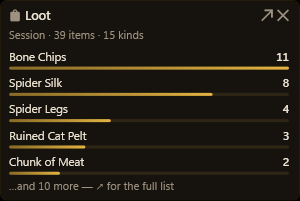
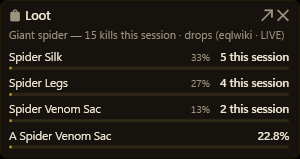
OE-9: the five new shots, and the two stagings the pictures caught
**Three predictions held, two stagings were wrong, and both wrong ones were pictures of a
REAL state** — which is trap 23's second half and exactly how a broken fixture reads as a
working feature.

`hud-expand-procs` came back empty TWICE. The item-proc line only NAMES the vehicle; a
proc is recorded when spell damage arrives whose spell was never cast ("a proc IS the
absence", #85). Adding a bare "points of non-melee damage" line failed the same way,
because that parses with the source "Direct spell" — which the proc rule explicitly
excludes for being a label that cannot name a proc. The named-spell form works.

`hud-expand-loot` came back BYTE-IDENTICAL to `hud-expand-loot-notarget`: the fixture's
trailing lines are past `TargetLinger`, so the session ends with no target and two shots
photographed one state. A staged /consider gives the populated picture — your observed
drops with percentages, then the wiki's behind them, which is the shape lock 2 is about.

**And the picture found something no test could.** A proc's name is "<spell> · <item>"
whenever an item line named the vehicle, and that plus three facts does not fit the
panel's one fixed 300 width: the row rendered "Exaltation Strike · Polished Mithril…"
over "0.1/min · 42 d…". Correct, clipped, and invisible to a diff, a build and every
assertion — trap 14's family. The rows carry the untruncated line as a hover now;
the ↗ to the Damage float's procs block is the real answer and was already built.
[…]

diff --git a/src/EQBuddy.UI.Shared/HudExpandPeek.cs b/src/EQBuddy.UI.Shared/HudExpandPeek.cs
@@ -277,8 +277,17 @@ public static class HudExpandPeek
 
         // Gauged by COUNT, because "/min" is the headline this surface exists for — a bar
         // drawn off damage would rank a rare heavy proc above the one actually firing.
+        //
+        // **The tooltip carries the untruncated row, and the first shot is why.** A proc's
+        // name is "<spell> · <item>" whenever an item-proc line named the vehicle, and that
+        // plus three facts does not fit the panel's one fixed 300 width — `hud-expand-procs`
+        // came back "Exaltation Strike · Polished Mithril…" over "0.1/min · 42 d…". The ⧉
+        // is the real answer (the Damage float's procs block draws these at full width), but
+        // a hover costs nothing and a row a player cannot read is trap 14's family: correct,
+        // clipped, and invisible to every test. Nothing but the picture says so.
         var rows = Gauged(procs, p => p.Count, p => p.Name,
-            p => $"×{p.Count} · {p.Count / minutes:0.#}/min · {p.Damage:N0} dmg");
+            p => $"×{p.Count} · {p.Count / minutes:0.#}/min · {p.Damage:N0} dmg",
+            p => $"{p.Name} — ×{p.Count} · {p.Count / minutes:0.#}/min · {p.Damage:N0} damage");
         return new PeekBody(subtext, rows, null,
             "procs|" + string.Join(",", procs.Select(p => $"{p.Name}:{p.Count}:{p.Damage}")));
     }

diff --git a/tests/EQBuddy.E2E/HudExpandTests.cs b/tests/EQBuddy.E2E/HudExpandTests.cs
@@ -161,10 +161,14 @@ public sealed class HudExpandTests
     /// well.</item>
     /// </list>
     ///
-    /// **`loot` LEFT this theory** — it is target-scoped now, so what it draws depends on
-    /// where the replay settles rather than on the session, and
-    /// <see cref="TheLootPeekShowsTargetDropsAndSaysSoWhenThereIsNoTarget"/> stages its state
-    /// instead of predicting it.
+    /// **`loot` stays in this theory at ZERO (#392's row), and that is a claim about the
+    /// FIXTURE rather than about the feature** — it is the one row here whose expected number
+    /// would change if the log gained a trailing /consider. What it CANNOT say is WHICH empty
+    /// state drew, and "select a target" versus "this creature has no known drops" is the
+    /// whole of what the re-scope is about;
+    /// <see cref="TheLootPeekShowsTargetDropsAndSaysSoWhenThereIsNoTarget"/> stages the state
+    /// and asserts `hudExpandEmpty` for exactly that reason (trap 20 — the thing being
+    /// asserted is what is not there).
     /// </summary>
     [Theory]
     [InlineData("loot", 0)]

diff --git a/DECISIONS.md b/DECISIONS.md
@@ -1,3 +1,4 @@
+<<<<<<< HEAD
 ## 2026-09-07 (#394 — the Lower Guk hall wizard and the arch magi chip)
 
 - **The catalog's `jin/kor ghoul wizard` placeholder was CLEARED rather than spelled out as two whole names** · the faithful-to-the-wiki fix is `a jin ghoul wizard/a kor ghoul wizard`, which is what the shorthand meant · cleared, on the owner's ruling of 2026-09-07 (*only the arch magus itself lights that chip*). Spelling it out would have kept a hall wizard as a door to that chip, which is the thing the report is about; the wiki's own PH fact survives in the entry's `note`, where a human reads it.
@@ -5,6 +6,19 @@
 - **The alias `the ghoul arch magus` was ADDED, which is a behaviour change nobody asked for** · the report only asked us to stop the false positive · added, because the same read showed the named's OWN kill lit nothing — folding strips the trailing "s", so the wiki's "arch magi" and the kill line's "arch magus" never matched. Suppressing the wrong trigger without this would have left a chip that nothing on earth could light, and reported it as fixed.
 - **Two ADJACENT malformed placeholders were cleaned up in the same change; none were expanded** · Lower Guk's `a froglok crusader` (`dar/zol knight`) and East Karana's `Emhu Mucktail` (`for Vexven/Grenix`) · both cleared, because both are inert as written — the real kill lines are "a dar ghoul knight" and "a zol ghoul knight", six characters from anything the shorthand can match, and Emhu's field held prose describing the relationship backwards. Clearing them changes no match; *expanding* them would newly bridge hall trash onto a named's chip, which is exactly what #394 asked us to stop, so that half is deliberately not done. `SpawnTimerTests.EveryShippedPlaceholderSegmentIsAWholeMobName` now fails the shape rather than a future reporter finding it.
 - **No `needs-david`.** Evolved/local v2 only, no tag, no publish; nothing here touches the values line, the release go, money, roadmap or privacy. It stays with the wiki on game data (the wiki's own PH note is preserved in the entry) and departs from it only on WHICH mob may start a countdown, which is a product rule rather than a game fact.
+=======
+## 2026-09-07 (OE-9 — every tray chip peeks and pops out; Loot to target scope)
+
+- **The Loot re-scope was BUILT here even though PR #392 is open and implements the same thing** · the alternative was to skip it and rebase on #392 · built, because the owner's ~1:29 PM CT amend says *"SKIP Loot redo in OE-9 **if #392 lands**"* and it has not landed (OPEN, unmerged, at the time of writing), while the seat's own commit order says to do it first unless the tree already has it. **It is a real collision and it is flagged rather than hidden**: #392 touches `HudExpandPeek.cs`, `HudExpandWindow.cs`, `LootPresentation.cs`, `LootBreakoutView.cs` and `HudExpandPeekTests.cs`, and this PR touches four of the five. Whichever merges second rebases; if #392 goes first, the Loot half of this PR is what to drop. Named for Helm in the LIVE ASK because only Helm can pick the order.
+- **The ~1:30 PM CT DPS fight-scope lock was applied to DPS and to nothing else** · the tempting read is that Healing and Pet are the same slot family and want the same treatment · DPS only, because the lock names DPS and its stated reason ("what a glance during a fight is for") is an argument I could make for the other two but was not asked to. An executor extending a scope lock across two more surfaces is deciding product. **Flagged as the obvious follow-on question** rather than answered.
+- **Procs pops out to the DAMAGE float, which gained a procs block, rather than to a new `BreakoutKind.Procs`** · a float of its own is the symmetric answer · the shared float, per the signed #389 plan's recommendation: procs are a damage-surface fact everywhere else in the app (the Combat card, the shell's Live room), the owner's own lock reads Money's breakout as "the Wealth section of Progress" so a SECTION of an existing window is inside the lock's vocabulary, and a tenth always-on-top window for five rows is the proliferation SA-2 was signed to end. The block had to be built: routing a chip to a window that could not draw its rows is the silent-no-op rule with the switch on the other side.
+- **Deaths pops out to the World window's Travels tab** · there is no other candidate, which is why this is a note rather than a choice · recorded because Deaths was OUT of the signed plan and IN per the amend, and the destination is the one fact the amend did not name. The old Travels & Deaths card's body has lived there since the World fold, and it made `WorldWindow` a fourth destination host — which is what turned "no breakout name means Progress" from a proxy into a bug (trap 64).
+- **The Money peek is FOUR coin facts and the per-item `SoldItems` breakdown stays in the window** · "same content as the Wealth tab" could have meant the sold-item list · four facts, because the peek is capped at five rows and the pop-out is one click from the full tab — which is what "the same content" can honestly mean at peek density. Flagged in the plan rather than assumed, and flagged again here.
+- **`hudExpandEmpty` was added to the `EQBUDDY_EXPAND` dump** · the cheaper option was to assert `hudExpandRows=0` and call it covered · added, because `hudExpandRows=0` cannot tell lock 2's two empty states apart — "select a target" and "this creature has no known drops" are the two facts the re-scope is ABOUT, and the session slice this replaced would have drawn rows in place of both. Prove-failed: the mutation reports `hudExpandEmpty=empty`.
+- **Lock 6's Options grep rider: NOTHING was stale and no row was added.** OE-9 adds no card, no setting and no `MiniStats` key; it turns cells that already existed into chips. A grep of `OptionsViewModel` and the Options copy for peek/pop-out language found nothing that this PR makes untrue.
+- **The per-tier motes rate is APPORTIONED from the summary's own `PerHour`, never re-divided** · taking `elapsed` and dividing again is the obvious shape · apportioned, because `Motes.Summarize` floors `hours` at one minute and a second division here would drift from the card's rate the day that floor changes — trap 4 as arithmetic. `PerHour × count ÷ Total` is `count ÷ hours` exactly.
+- **No `needs-david`.** Nothing here touches the values line, the release go, money, roadmap, the wiki, or what leaves the machine. Every content decision came from the owner's own locks; what is recorded above is execution.
+>>>>>>> 5c3b342b (OE-9: the five new shots, and the two stagings the pictures caught)
 
 ## 2026-09-07 (OE settings reset on republish — #385: the write is the bug, and the blast radius)
 

diff --git a/FABLE-FEEDBACK.md b/FABLE-FEEDBACK.md
@@ -1,3 +1,19 @@
+## 2026-09-07 ~2:00 PM CT — OE-9 EXECUTED. The plan's whole value was §3, and the owner amended the scope out from under it mid-build — which is a fact about the CHANNEL rather than about the plan
+
+To: Fable
+
+**Reinforcing, and specifically:** §3 is why this was worth a plan. The trap-64 catch — *"'null breakout' is a proxy for 'goes to the Progress window', exact while Progress was the only non-float destination, and wrong the day Kills arrives"* — was correct, and an implement diff would have walked into it exactly as you said. I want to name what made it catchable rather than just praise it: **you asked what the NEW member could reach, not what the current code does.** `Kills` was the member that broke the proxy and it was in your own §2 list; the connection between "we are adding a target whose window is not a float" and "the routing method infers float-ness from an absence" is one nobody makes while reading the routing method. That is the same move trap 64's own entry recommends, applied before the bug rather than after.
+
+**Also reinforcing: the §2 note on Procs' source.** *"`StatsSnapshot.Procs` is `(Name, Count, Damage)` — no separate healing field exists, so 'damage/healing/pertinent stats' ships as the stats the app tracks today"* was right, and checking it cost you one grep. It saved a round where I would have gone looking for a healing figure Bevel's ask implied. It is now a test (`ProcsPeekReportsOnlyWhatCoreTracks`) rather than a comment, so the next person who reads #371 finds the answer already asserted.
+
+**Constructive, and the one thing that would have changed my first hour: the motes rate.** §2 says *"count ÷ elapsed hours, the summary's own denominator"*, which reads as an instruction to take `elapsed` and divide. `Motes.Summarize` floors `hours` at one minute, so dividing again here would have been a SECOND copy of that denominator — trap 4 as arithmetic, drifting the day the floor changes. What ships apportions the summary's own `PerHour` (`PerHour × count ÷ Total`, which is `count ÷ hours` exactly), so there is no second division at all. **When a plan says "the same denominator", say whether that means "compute it the same way" or "do not compute it twice"** — they are different instructions and only the second one is safe.
+
+**What it COST, and it is not yours: the scope changed twice while this was being built.** The owner's ~1:29 and ~1:30 PM CT amends (`HELM-FEEDBACK.md`) supersede your §2 Deaths-OUT assumption and add DPS fight-scope. Your Deaths line was written exactly right — *"one line from Helm or the owner adds it later as one enum row + one builder on this exact pattern"* — and that is precisely what happened, at a cost of one enum row and one builder. **A stated assumption that names its own reversal cost is what made a mid-build scope change cheap**, and that is the habit to keep.
+
+The one structural casualty: §6 recommended the Loot re-scope as its own first commit so Helm could cherry-pick it out. That is not what shipped, and the reason is worth recording — the ~1:29 amend put the tray sweep in the SAME files and the same test file as the Loot change, so a clean split would have meant reordering hunks inside one method. It is one PR with the collision named in the ask instead. **The lesson for the next "make it cherry-pickable" recommendation: a commit is only separable while the later commits do not edit the same lines**, and a plan cannot know that about an amend it predates.
+
+— Dranak (Claude Code)
+
 ## 2026-09-07 ~11:05 AM CT — OE-8 EXECUTED from the persistence plan. The plan was right about the architecture and the two things it could not have known were both found by the harness it named
 
 To: Fable
